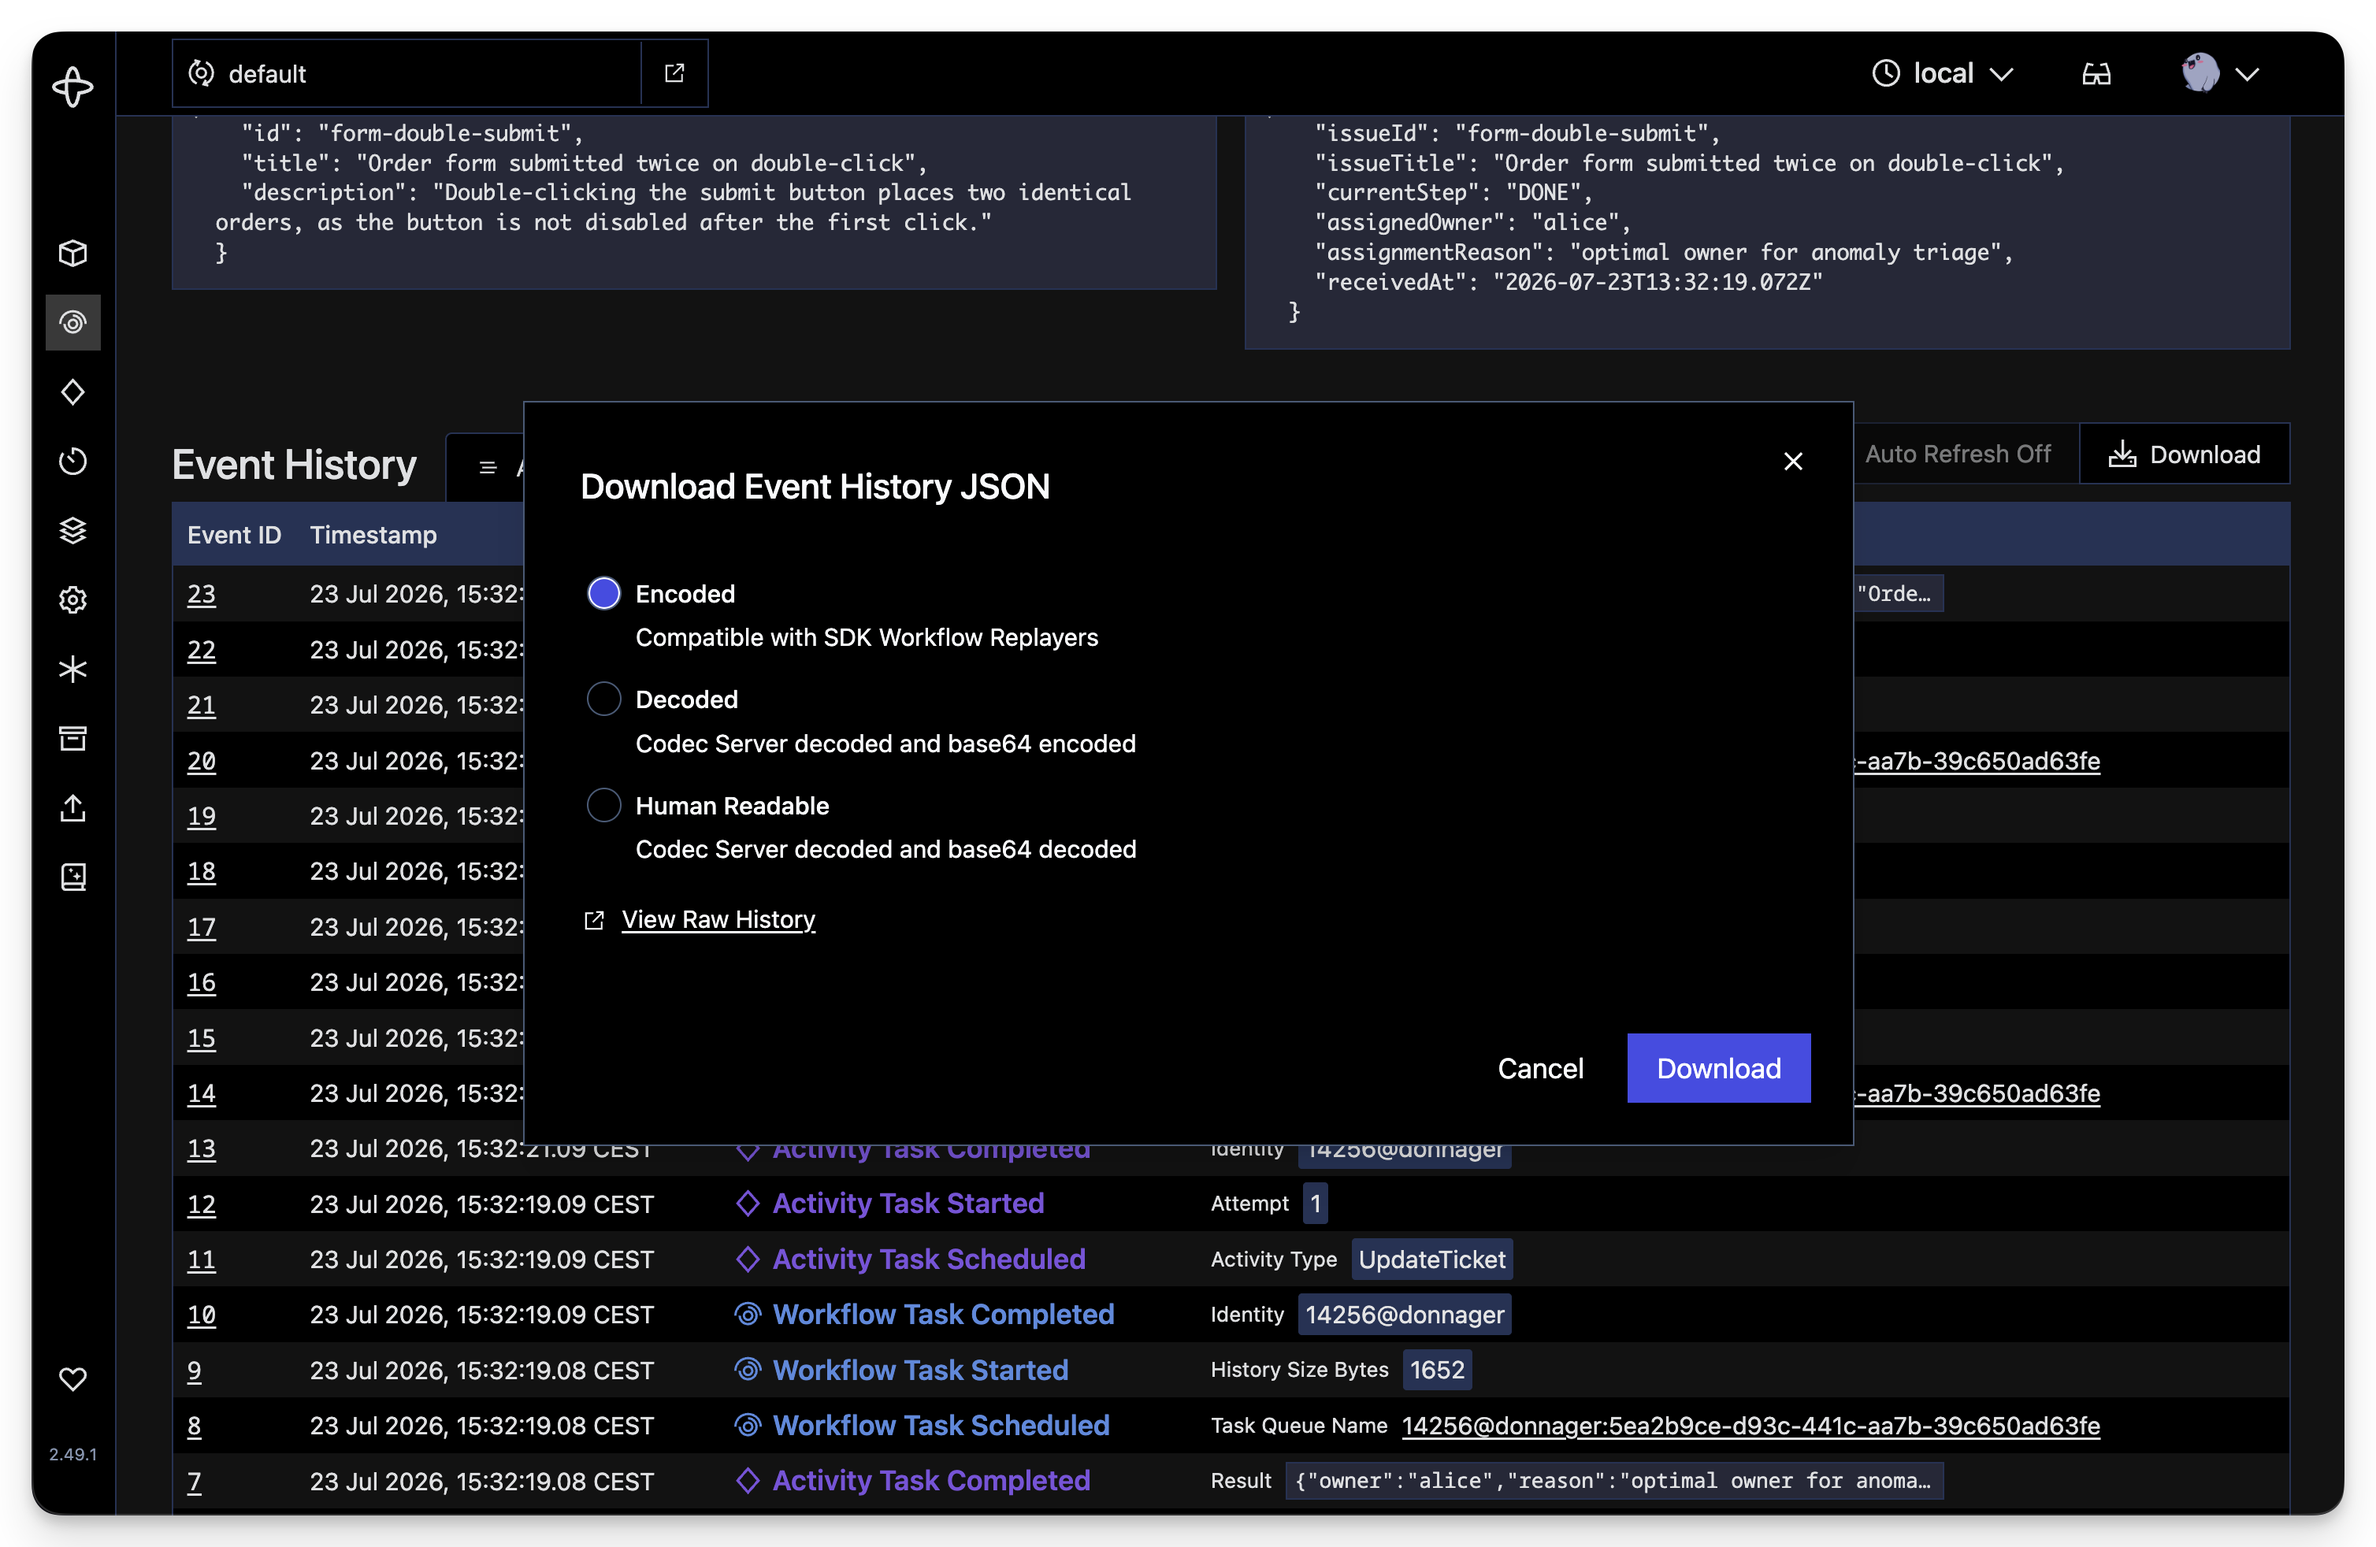
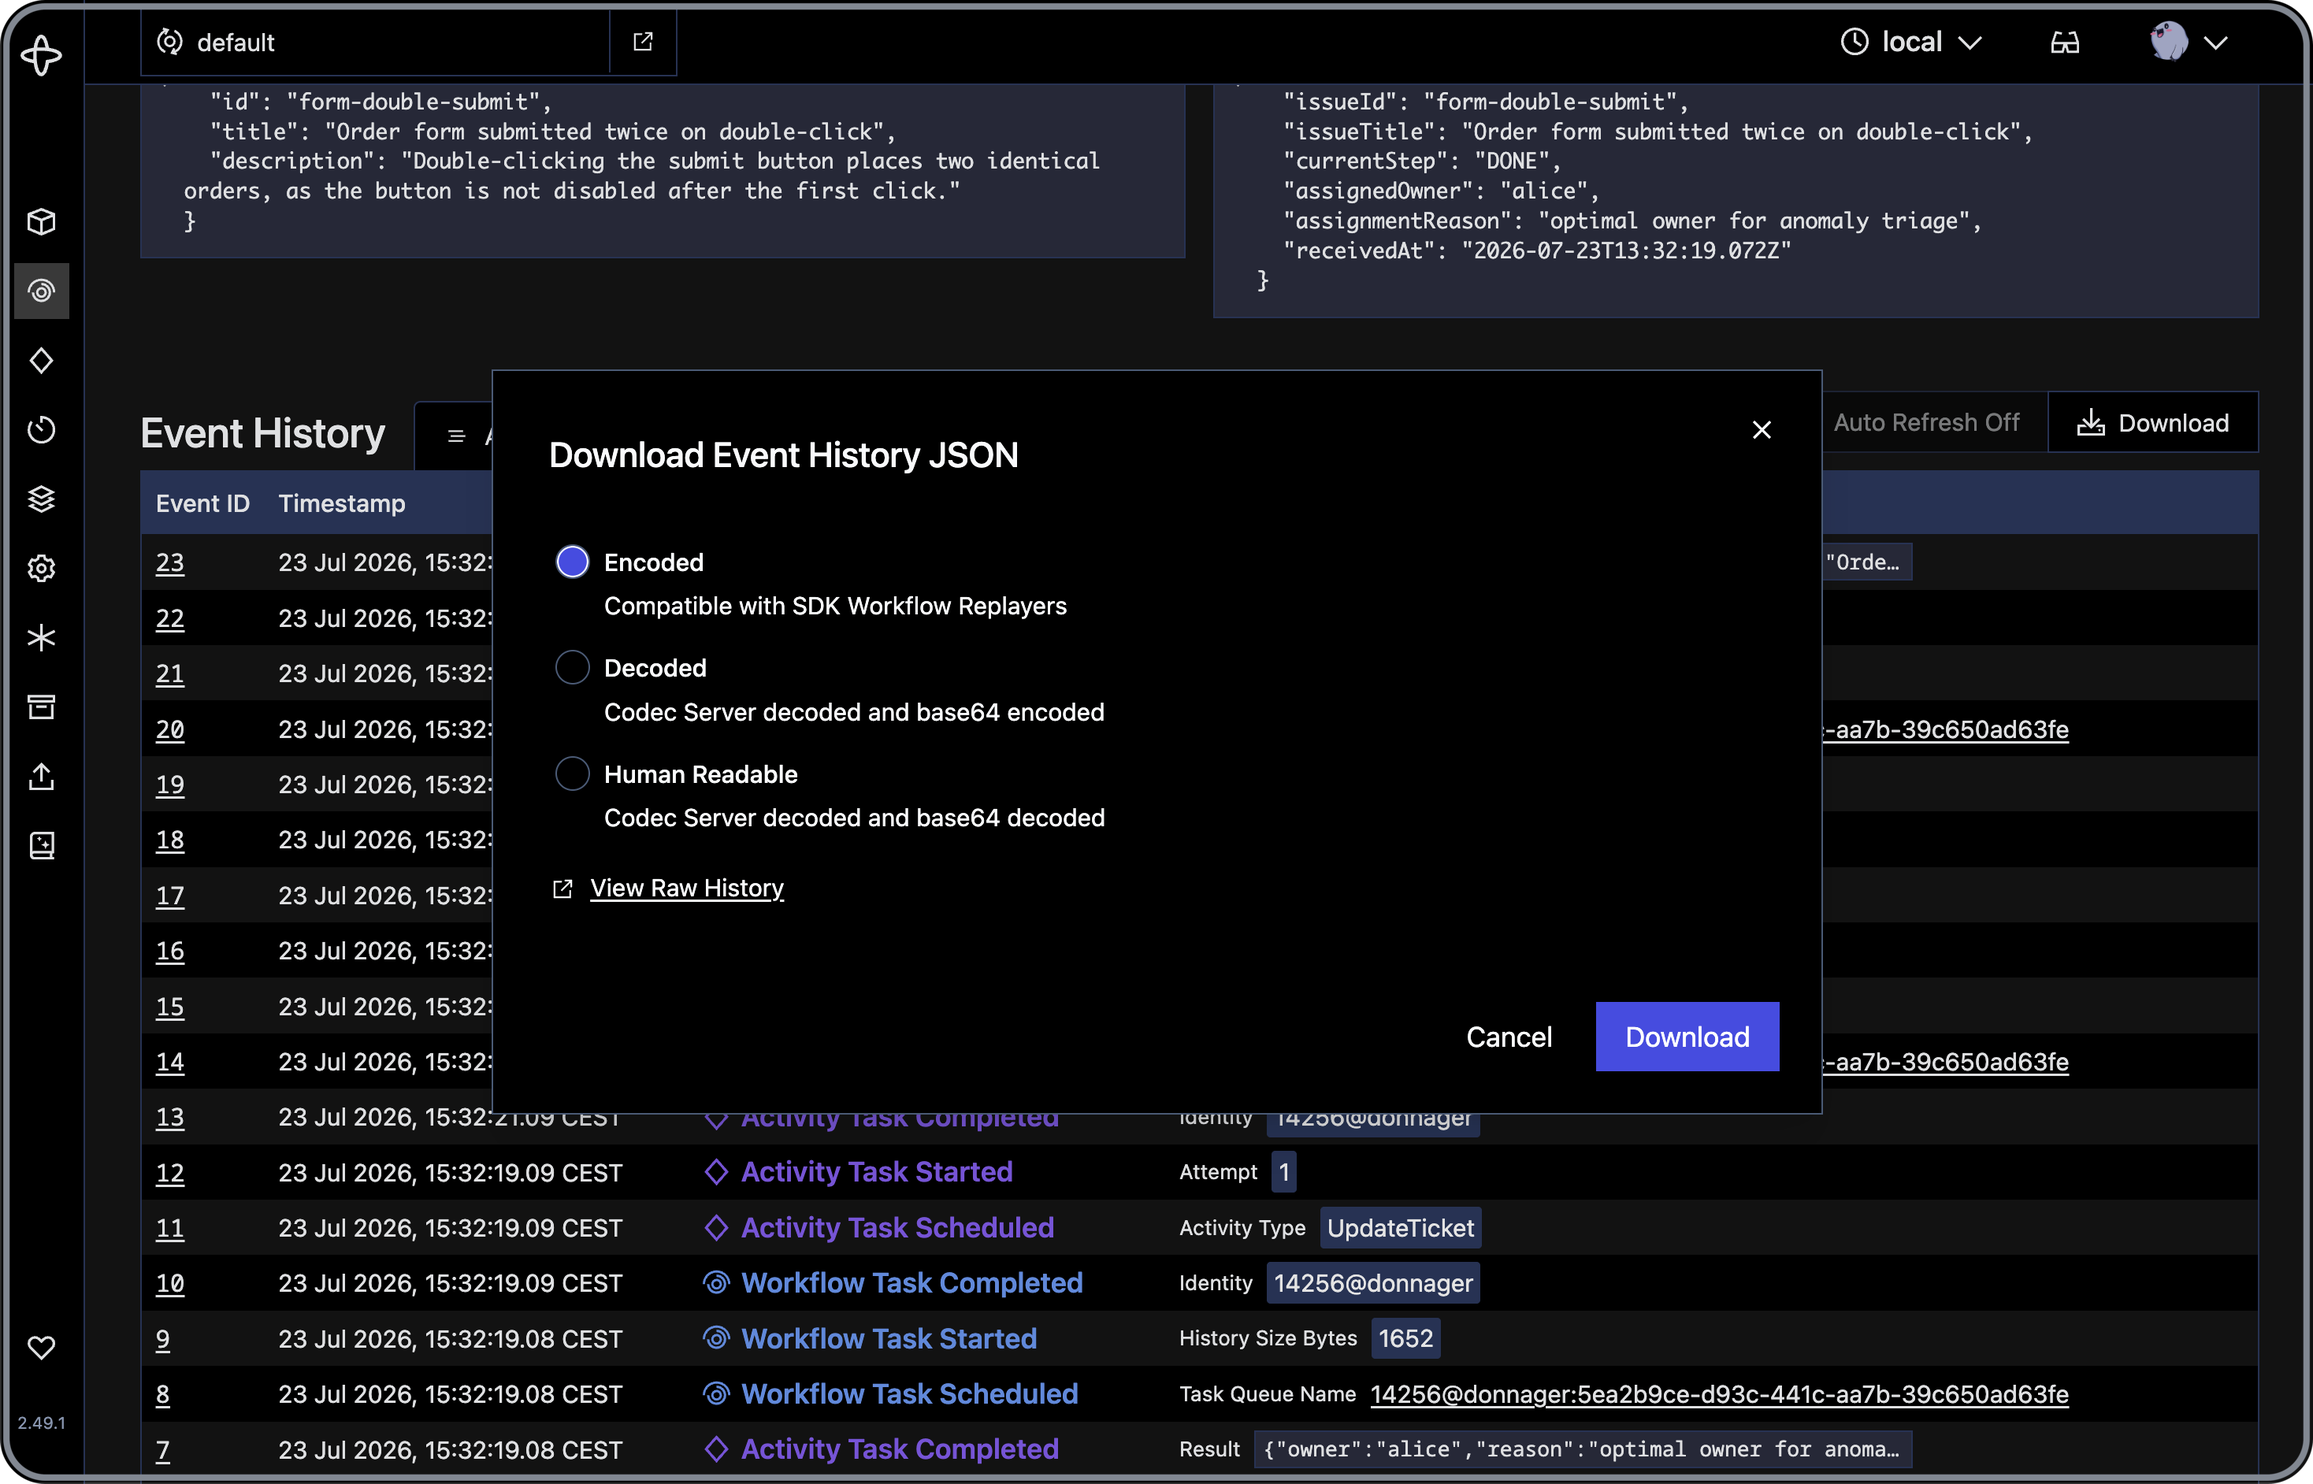
Frame the remaining screenshots like app.png
Apply app.png's treatment to the debugger, event-history and git-blame
screenshots: a #828892 stroke inset from the edge, outer corners rounded
and transparent.

The geometry scales with the image width (radius 28.5, inset 2 and stroke
width 4 at app.png's 1448 px), so the four screenshots look identical once
GitHub downscales them to the README column.

event-history.png is a macOS window grab, so crop it to its opaque window
box first and drop the system shadow the frame would otherwise enclose.

Changed region(s): [[0.0, 0.0, 1.0, 1.0], [0.6199, 0.6465, 0.8988, 0.7389], [0.7749, 0.4618, 0.8988, 0.5234]]

diff --git a/.claude/project-memory/references/readme-screenshot-border.md b/.claude/project-memory/references/readme-screenshot-border.md
@@ -1,0 +1,42 @@
+---
+name: "README screenshot border treatment"
+description: "Every README screenshot carries the same rounded-corner #828892 border, sized proportionally to the image width"
+type: project
+---
+
+# README screenshot border treatment
+
+Every screenshot referenced from `README.md`
+carries the same frame: a solid `#828892` stroke
+inset from the edge, with the outer corners
+rounded and fully transparent (no drop shadow,
+no background fill).
+
+The geometry is proportional to the image width,
+so all screenshots look identical once GitHub
+scales them to the README column. Taking
+`app.png` (1448 px wide) as the reference,
+with `k = width / 1448`:
+
+- corner radius `28.5 * k`
+- stroke inset `2 * k` from the image edge
+- stroke width `4 * k`
+
+A macOS window grab is first cropped to its
+opaque window box (`magick in.png -alpha extract
+-threshold 50% -format %@ info:`) so the system
+drop shadow is gone before the frame is drawn.
+
+**Why:** the screenshots sit next to each other
+in the README and are all downscaled to the same
+column width; a fixed pixel border would render
+thinner on the higher-resolution grabs and the
+set would look inconsistent.
+
+**How to apply:** render the mask and the stroke
+ring at 4x and downsample for clean antialiasing
+— build the ring as a filled rounded rectangle at
+the inset minus a filled rounded rectangle at
+inset + stroke width, colorize it, composite it
+over the source, then copy a full-bleed rounded
+rectangle into the alpha channel.

diff --git a/.claude/project-memory/MEMORY.md b/.claude/project-memory/MEMORY.md
@@ -47,3 +47,4 @@
 - [Workflow input wire names must match the replay fixture](references/workflow-input-wire-names-replay.md) — renaming an Issue component fails replay until make capture-history runs
 - [Jev's decision-model wire format](references/jev-wire-format.md) — POST /v1/systemone on TypeSafe's API; no client-side retry, Temporal owns it
 - [Worker auto-discovery](references/temporal-workers-auto-discovery-config.md) — workflow-packages scans @WorkflowImpl; activity beans need the flag
+- [README screenshot border treatment](references/readme-screenshot-border.md) — rounded #828892 frame, transparent corners, geometry scaled to image width
